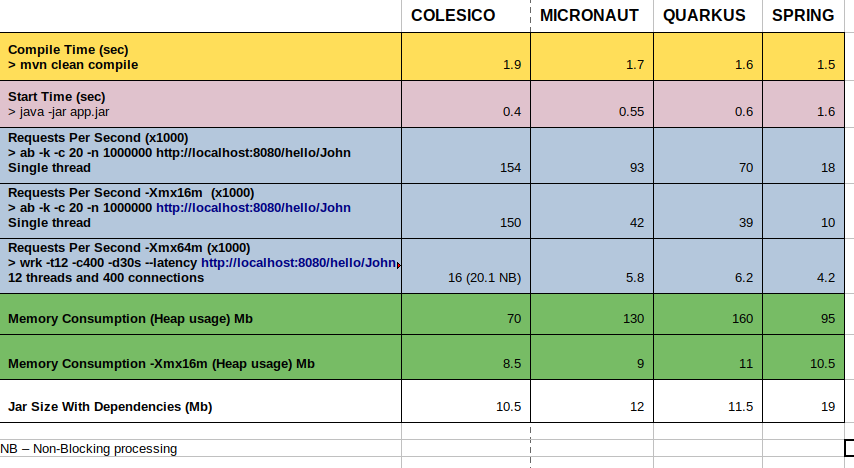
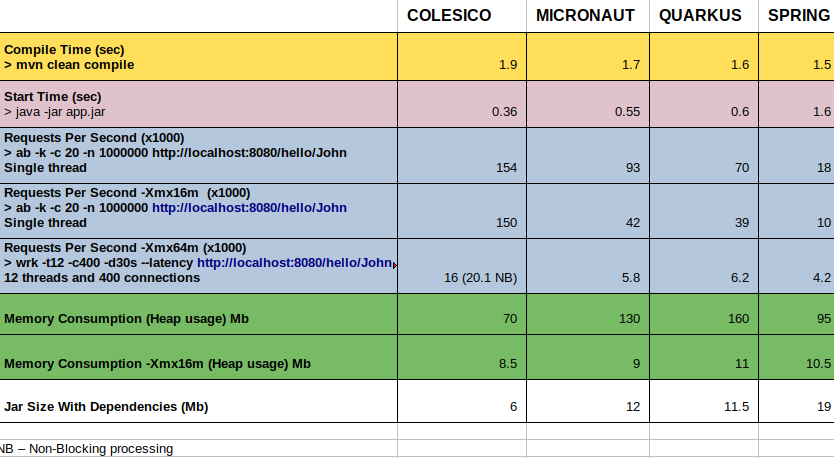
dep. up

diff --git a/colesico-example/src/main/java/colesico/framework/demo/RestApi.java b/colesico-example/src/main/java/colesico/framework/demo/RestApi.java
@@ -35,7 +35,7 @@ public class RestApi {
     }
 
     @Route("/hello/:name")
-    @RouteAttribute(name = NON_BLOCKING, value = "true")
+   // @RouteAttribute(name = NON_BLOCKING, value = "true")
     public String hello(String name) {
         return messageService.sayHello(name);
     }

diff --git a/colesico-example/src/main/java/module-info.java b/colesico-example/src/main/java/module-info.java
@@ -1,6 +1,6 @@
 module colesico.framework.demo {
 
-    requires colesico.framework.bundle.web;
+    requires colesico.framework.bundle.rest;
     requires colesico.framework.undertow;
     requires java.net.http;
 
